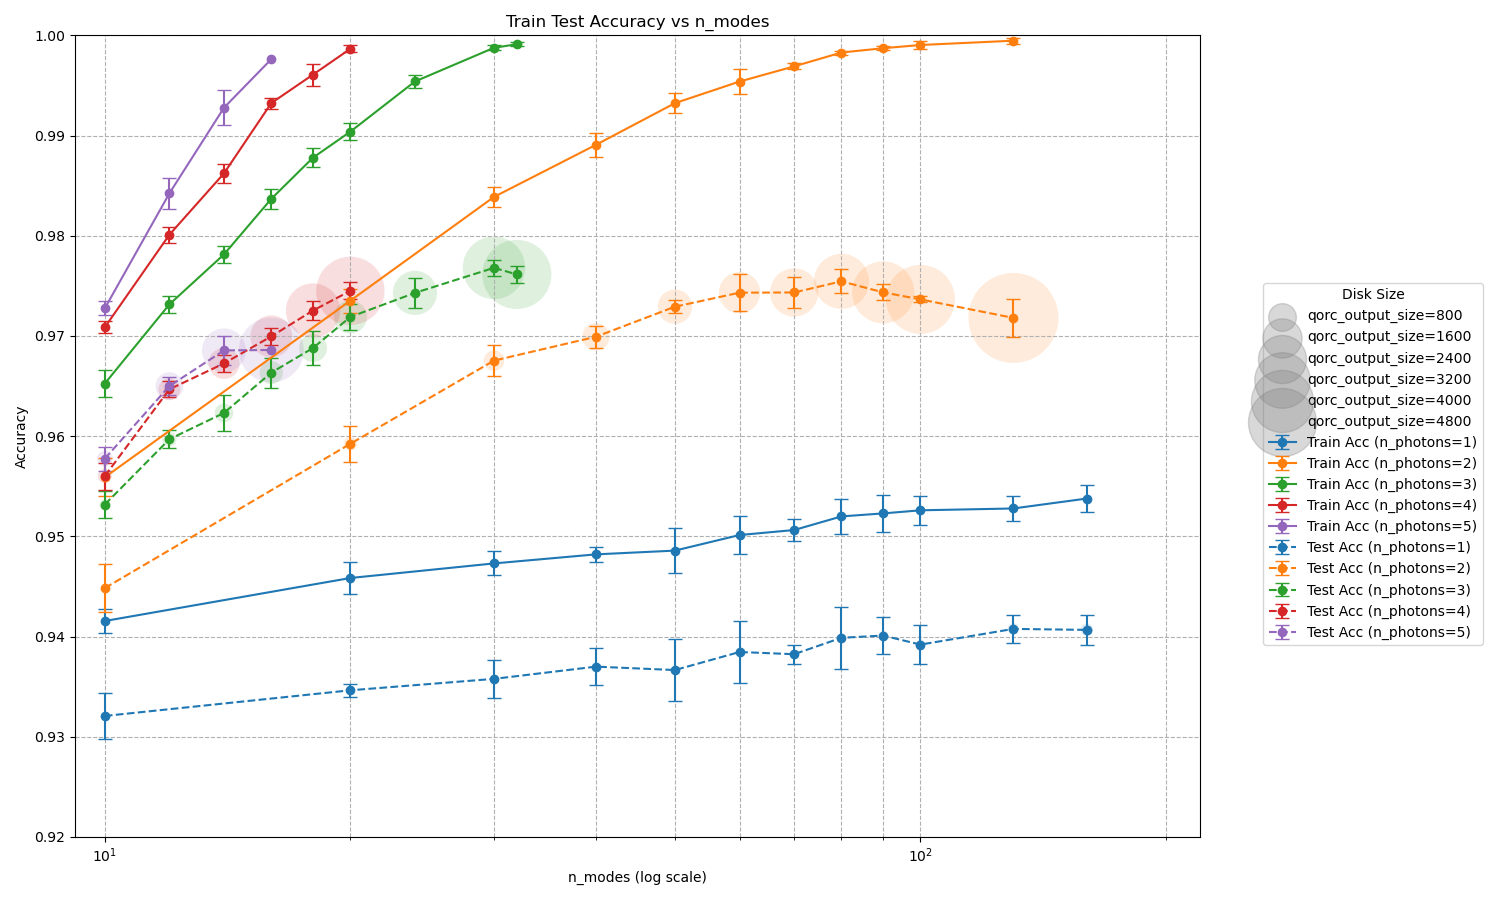
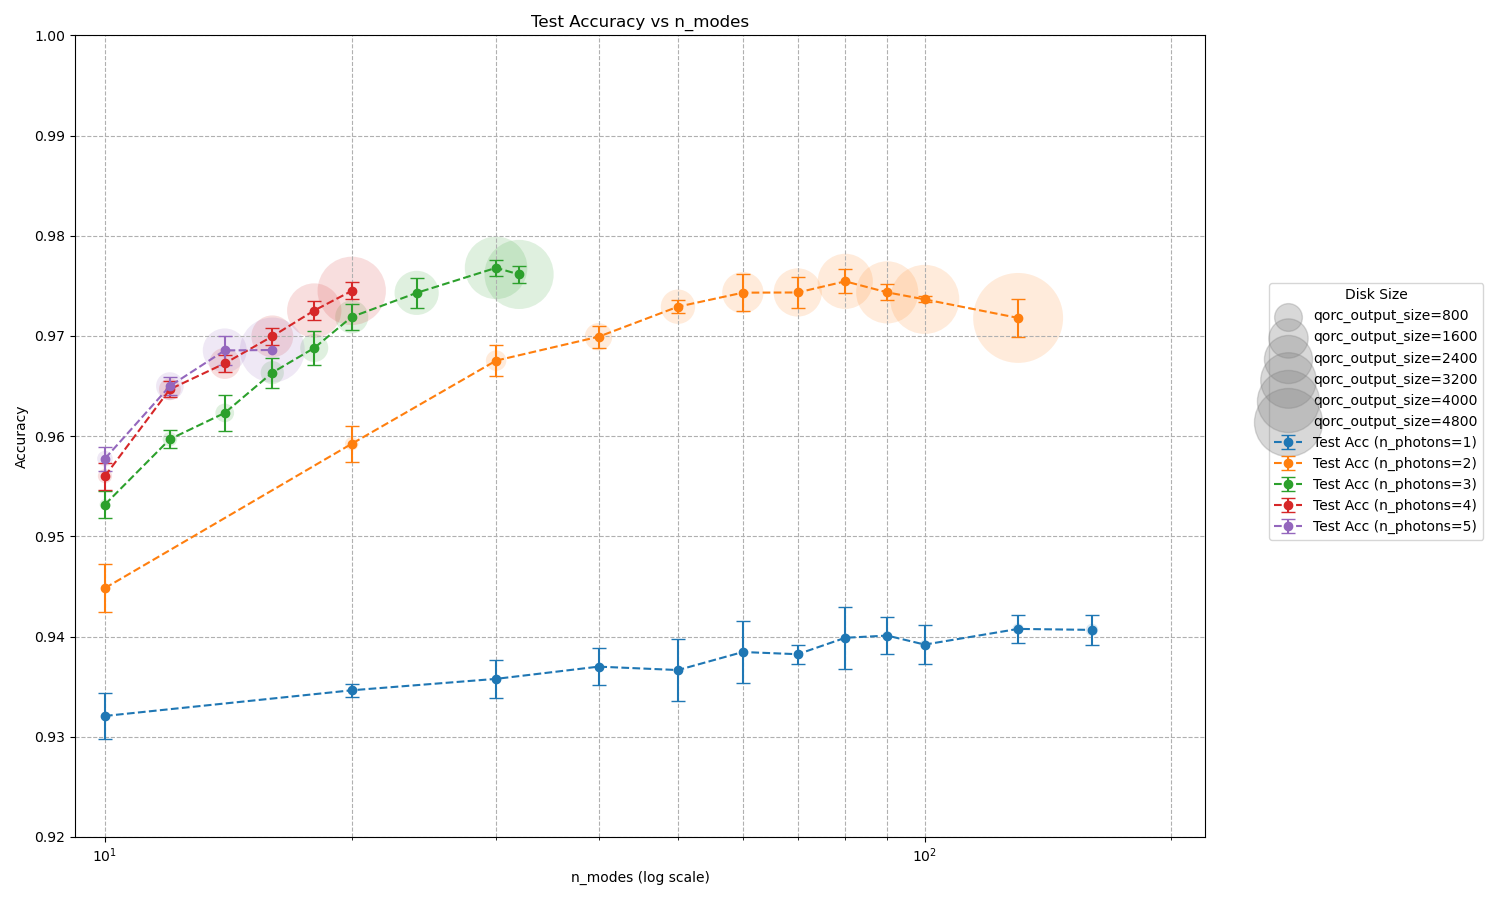
Improve code comments, test accuracy only in graphs for clarity, minor fix

diff --git a/QORC/utils/draw_graph_qorc_vs_rff.py b/QORC/utils/draw_graph_qorc_vs_rff.py
@@ -11,6 +11,7 @@ import matplotlib.pyplot as plt
 import pandas as pd
 
 
+# Aggregate rff results from outdir to single csv file
 def aggregate_results_csv_files(outdir, f_out_aggregated_csv):
     dataframes = []
     for root, _dirs, files in os.walk(outdir):
@@ -35,6 +36,8 @@ def draw_graph_qorc_vs_rff(
     f_in_rff_aggregated_results_csv,
     features_scale,
     figsize_list,
+    b_train_acc,
+    b_test_acc,
     f_out_img,
 ):
     df_qorc = pd.read_csv(f_in_qorc_aggregated_results_csv)
@@ -43,23 +46,19 @@ def draw_graph_qorc_vs_rff(
     df_qorc = df_qorc.rename(columns={"qorc_output_size": "n_features"})
     df_rff = df_rff.rename(columns={"n_rff_features": "n_features"})
 
-    # Filtrer df1 pour ne garder que les lignes avec n_photons == 3
+    # Filter df1 to keep only rows where n_photons == 3
     df_qorc_filt = df_qorc[df_qorc["n_photons"] == 3]
 
-    # Trouver les valeurs communes de n_features entre les deux dataframes
+    # Filtrer df1 pour ne garder que les lignes avec n_photons == 3
     common_features = set(df_qorc_filt["n_features"]).intersection(
         set(df_rff["n_features"])
     )
 
-    # Filtrer les deux dataframes pour ne garder que les valeurs communes
+    # Filter both dataframes to keep only common values
     df_qorc_common = df_qorc_filt[df_qorc_filt["n_features"].isin(common_features)]
     df_rff_common = df_rff[df_rff["n_features"].isin(common_features)]
 
-    # Trier par n_features pour un tracé propre
-    # df_qorc_common = df_qorc_common.sort_values('n_features')
-    # df_rff_common  = df_rff_common.sort_values('n_features')
-
-    # Calculer moyenne et écart-type pour QORC
+    # Compute avg and StDev per n_feature, for qorc
     grouped_qorc = (
         df_qorc_common.groupby("n_features")
         .agg(
@@ -71,7 +70,7 @@ def draw_graph_qorc_vs_rff(
         .reset_index()
     )
 
-    # Calculer moyenne et écart-type pour RFF
+    # Compute avg and StDev per n_feature, for RFF
     grouped_rff = (
         df_rff_common.groupby("n_features")
         .agg(
@@ -83,59 +82,62 @@ def draw_graph_qorc_vs_rff(
         .reset_index()
     )
 
-    # Tracer les courbes
     figsize = (figsize_list[0], figsize_list[1])
     plt.figure(figsize=figsize)
 
-    # plt.plot(df_qorc_common['n_features'], df_qorc_common['train_acc'], label='Train Acc qorc', marker='o')
-    # plt.plot(df_qorc_common['n_features'], df_qorc_common['test_acc'], label='Test Acc qorc', marker='o')
-    # plt.plot(df_rff_common['n_features'], df_rff_common['train_acc'], label='Train Acc RFF', marker='s')
-    # plt.plot(df_rff_common['n_features'], df_rff_common['test_acc'], label='Test Acc RFF', marker='s')
-    # QORC
-    plt.errorbar(
-        grouped_qorc["n_features"],
-        grouped_qorc["mean_train_acc"],
-        yerr=grouped_qorc["std_train_acc"],
-        label="Train Acc QORC",
-        marker="o",
-        linestyle="-",
-        capsize=5,
-    )
-    plt.errorbar(
-        grouped_qorc["n_features"],
-        grouped_qorc["mean_test_acc"],
-        yerr=grouped_qorc["std_test_acc"],
-        label="Test Acc QORC",
-        marker="o",
-        linestyle="--",
-        capsize=5,
-    )
+    # QORC curves
+    if b_train_acc:
+        plt.errorbar(
+            grouped_qorc["n_features"],
+            grouped_qorc["mean_train_acc"],
+            yerr=grouped_qorc["std_train_acc"],
+            label="Train Acc QORC",
+            marker="o",
+            linestyle="-",
+            capsize=5,
+        )
+    if b_test_acc:
+        plt.errorbar(
+            grouped_qorc["n_features"],
+            grouped_qorc["mean_test_acc"],
+            yerr=grouped_qorc["std_test_acc"],
+            label="Test Acc QORC",
+            marker="o",
+            linestyle="--",
+            capsize=5,
+        )
 
-    # RFF
-    plt.errorbar(
-        grouped_rff["n_features"],
-        grouped_rff["mean_train_acc"],
-        yerr=grouped_rff["std_train_acc"],
-        label="Train Acc RFF",
-        marker="s",
-        linestyle="-",
-        capsize=5,
-    )
-    plt.errorbar(
-        grouped_rff["n_features"],
-        grouped_rff["mean_test_acc"],
-        yerr=grouped_rff["std_test_acc"],
-        label="Test Acc RFF",
-        marker="s",
-        linestyle="--",
-        capsize=5,
-    )
+    # RFF curves
+    if b_train_acc:
+        plt.errorbar(
+            grouped_rff["n_features"],
+            grouped_rff["mean_train_acc"],
+            yerr=grouped_rff["std_train_acc"],
+            label="Train Acc RFF",
+            marker="s",
+            linestyle="-",
+            capsize=5,
+        )
+    if b_test_acc:
+        plt.errorbar(
+            grouped_rff["n_features"],
+            grouped_rff["mean_test_acc"],
+            yerr=grouped_rff["std_test_acc"],
+            label="Test Acc RFF",
+            marker="s",
+            linestyle="--",
+            capsize=5,
+        )
 
-    # Ajouter des labels et une légende
     plt.xlabel("n_features")
     plt.ylabel("Accuracy")
-    plt.title("Train and Test Accuracies vs n_features")
-    plt.ylim(0.88, 1.00)  # Ajustement de l'échelle Y pour voir 1.00
+    s_title = "Accuracy vs n_features"
+    if b_test_acc:
+        s_title = "Test " + s_title
+    if b_train_acc:
+        s_title = "Train " + s_title
+    plt.title(s_title)
+    plt.ylim(0.88, 1.00)
     plt.xticks(features_scale)
     plt.legend(loc="lower right")
     plt.grid(True)
@@ -146,7 +148,6 @@ def draw_graph_qorc_vs_rff(
         plt.savefig(f_out_img)
         print("Saved file:", f_out_img)
 
-    # Afficher le graphe
     plt.show()
 
 
@@ -166,10 +167,17 @@ if __name__ == "__main__":
     features_scale = list(range(2000, 6001, 2000))
     figsize_list = [8, 6]
 
+    b_train_acc = False
+    # b_train_acc = True
+    # b_test_acc = False
+    b_test_acc = True
+
     draw_graph_qorc_vs_rff(
         f_in_qorc_aggregated_results_csv,
         f_in_rff_aggregated_results_csv,
         features_scale,
         figsize_list,
+        b_train_acc,
+        b_test_acc,
         f_out_img,
     )

diff --git a/QORC/lib/lib_rff_encoding_and_linear_training.py b/QORC/lib/lib_rff_encoding_and_linear_training.py
@@ -54,7 +54,7 @@ def rff_encoding_and_linear_training(
     logger.info(test_label.shape)  # (10000,)
     logger.info(test_data.shape)  # (10000, 784)
 
-    # Normalisation des données mnist, en entrée
+    # MNIST data normalization
     scaler = StandardScaler()
     scaler.fit(train_data)
     scaled_train_data = scaler.transform(train_data)
@@ -62,7 +62,7 @@ def rff_encoding_and_linear_training(
 
     time_t2 = time.time()
 
-    # Transformation RFF
+    # RFF features computation
     rff = RBFSampler(
         gamma=1.0 / (2 * sigma**2), n_components=n_rff_features, random_state=run_seed
     )
@@ -72,43 +72,40 @@ def rff_encoding_and_linear_training(
 
     time_t3 = time.time()
 
-    # Aggréger les rff features avec mnist brut
+    # Build full training dataset (aggregate MNIST + RFF features)
     all_train_data = np.hstack(
         [scaled_train_data, train_data_rff]
     )  # Shape: [n_samples, 28x28 + n_rff_features]
     all_test_data = np.hstack([scaled_test_data, test_data_rff])
 
-    # Scaler avant linear training
     scaler_rff = StandardScaler()
     scaler_rff.fit(all_train_data)
     scaled_all_train_data = scaler_rff.transform(all_train_data)
     scaled_all_test_data = scaler_rff.transform(all_test_data)
 
-    # Fitter une SVM linéaire
+    # Linear SVC with/without SGD
     if b_optim_via_sgd:
         # Source: LeChat / MistralAI
 
         print("Fit de la SVM (via SGD et hinge loss)")
-        # Entraînement accéléré avec SGD
         n_samples = scaled_all_train_data.shape[0]
         clf = SGDClassifier(
-            loss="hinge",  # Équivalent à LinearSVC
+            loss="hinge",  # Similar to LinearSVC
             alpha=1.0
-            / (1.0 * n_samples * regularization_c),  # 1/(n_samples * C), avec C=1.0
-            max_iter=max_iter_sgd,  # Réduit le nombre d'itérations
-            tol=1e-2,  # Tolérance plus grande
+            / (1.0 * n_samples * regularization_c),  # 1/(n_samples * C), with C=1.0
+            max_iter=max_iter_sgd,
+            tol=1e-2,  # tolerance
             random_state=run_seed,
-            n_jobs=-1,  # Parallélise si possible
+            n_jobs=-1,  # parrallel computing if possible
         )
 
     else:
         print("Fit de la SVM (LinearSVC)")
         clf = LinearSVC(
             multi_class="ovr", random_state=run_seed, C=regularization_c
-        )  # One-Versus-Rest: Entrainer 1 classifier binaire par classe puis choisir la classe de marge max
+        )  # One-Versus-Rest: Train one binary classifier per class then select highest margin class
 
     clf.fit(scaled_all_train_data, train_label)
-    # Calcul des prédictions de la SVM
     train_model_pred = clf.predict(scaled_all_train_data)
     test_model_pred = clf.predict(scaled_all_test_data)
 

diff --git a/QORC/lib/lib_learning.py b/QORC/lib/lib_learning.py
@@ -1,10 +1,12 @@
 #!/usr/bin/python3
 # -*- coding: utf-8 -*-
 
-"""This module provides standard code for deep learning : train deep learning models, compute predictions over a given dataset
+"""
+This module provides standard code for deep learning: train deep learning models, compute predictions over a given dataset.
+Original authors: Vincent Espitalier <vincent.espitalier@cirad.fr>
+                  Hervé Goëau <herve.goeau@cirad.fr>
 
-Author: Vincent Espitalier <vincent.espitalier@cirad.fr>
-        Hervé Goëau <herve.goeau@cirad.fr>
+Modified by: Vincent Espitalier <vincent.espitalier@quandela.com>
 """
 
 import sys

diff --git a/QORC/lib/lib_qorc_encoding_and_linear_training.py b/QORC/lib/lib_qorc_encoding_and_linear_training.py
@@ -73,7 +73,7 @@ def create_qorc_quantum_layer(
         trainable_parameters=[],  # Circuit is not trainable
         input_parameters=params_prefix,  # Input encoding parameters
         input_state=qorc_input_state,  # Initial photon state
-        output_mapping_strategy=ML.OutputMappingStrategy.NONE,  # Output: Get all Fock states
+        output_mapping_strategy=ML.OutputMappingStrategy.NONE,  # Output: Get all Fock states probas
         # See: https://merlinquantum.ai/user_guide/output_mappings.html
         no_bunching=b_no_bunching,
         device=torch.device(device_name),

diff --git a/QORC/utils/draw_main_graph.py b/QORC/utils/draw_main_graph.py
@@ -11,6 +11,7 @@ import matplotlib.pyplot as plt
 import pandas as pd
 
 
+# Aggregate qorc results from outdir to single csv file
 def aggregate_results_csv_files(outdir, f_out_aggregated_csv):
     dataframes = []
     for root, _dirs, files in os.walk(outdir):
@@ -163,8 +164,8 @@ if __name__ == "__main__":
 
     figsize_list = [15, 9]
 
-    # b_train_acc = False
-    b_train_acc = True
+    b_train_acc = False
+    # b_train_acc = True
     # b_test_acc = False
     b_test_acc = True
 

diff --git a/QORC/README.md b/QORC/README.md
@@ -70,7 +70,6 @@ Note:
 
 Place configuration files in `configs/`.
 
-- `defaults.json` shows the structure and defaults.
 - Keys typically include: n_photons, n_modes, seed, n_epochs, batch_size, learning_rate
 
 ## Results and Analysis
